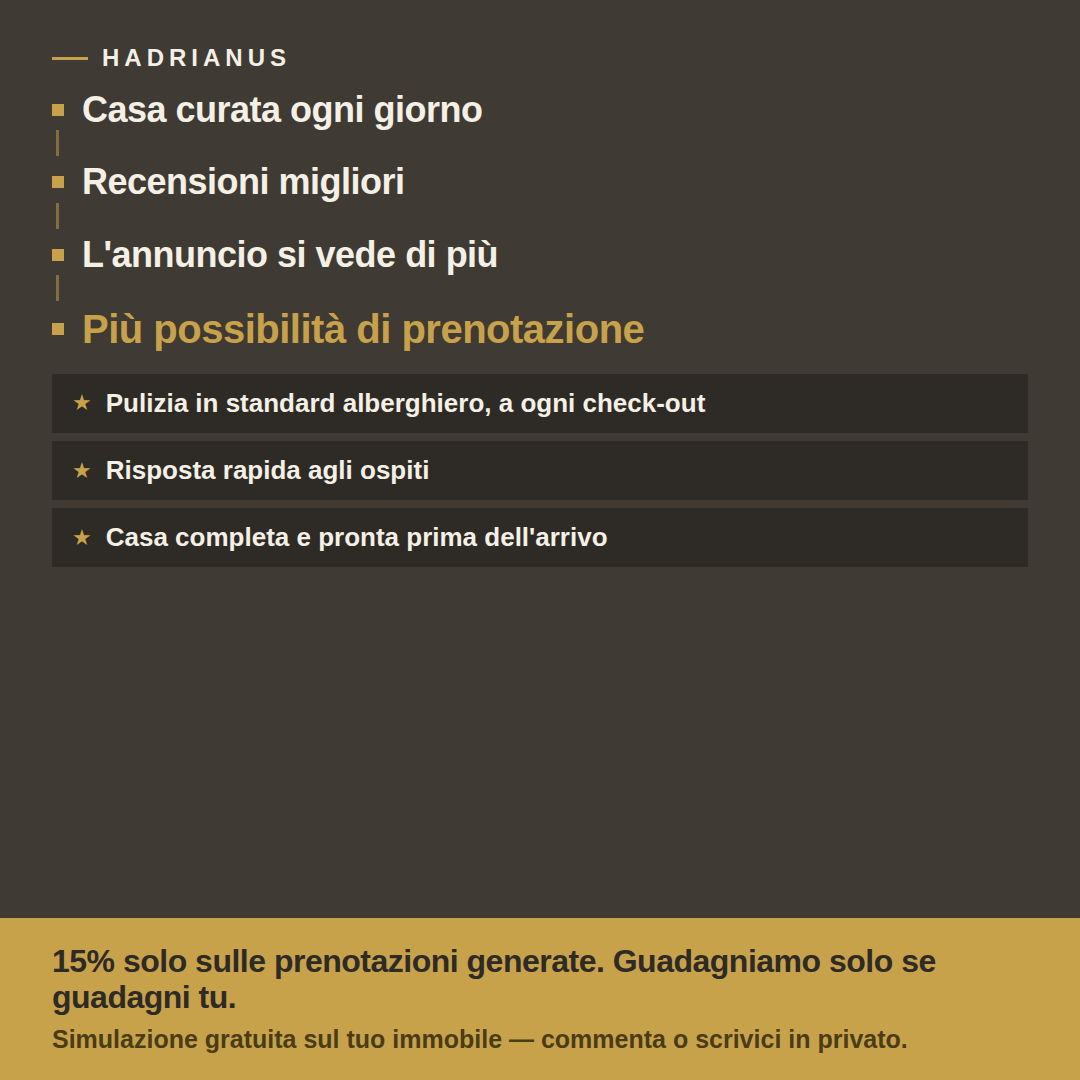
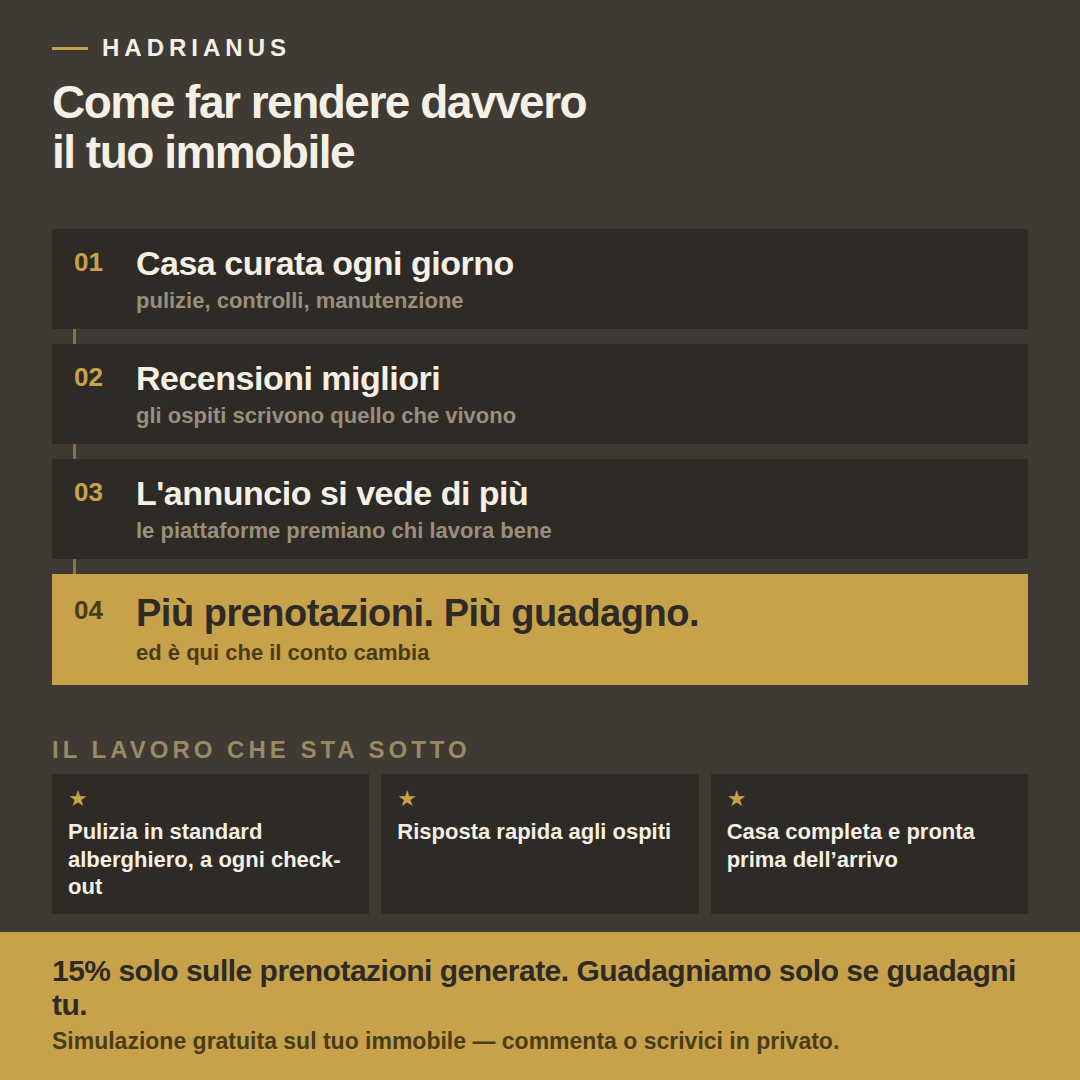
Rifà le tre immagini del post recensioni
Prima immagine: composizione centrata su corona e cinque stelle in
oro, con la corona anche come filigrana di fondo; la citazione in
basso ora è una card intera, non più tagliata dal bordo. Seconda
immagine ribaltata su fondo chiaro, con le recensioni su card bianche
a filo oro, evidenziazioni più marcate e la riga di sintesi molto più
grande su banda scura. Terza immagine ristrutturata: titolo di
contesto, quattro passaggi ognuno con la sua spiegazione e l'ultimo
in oro sul guadagno, il lavoro quotidiano in tre colonne, CTA che
adesso entra tutta nel formato.

Claude-Session: https://claude.ai/code/session_012jZTrBhTbSbvgQn1isvnmh

diff --git a/campagne/facebook-recensioni-superhost/grafiche/RecCatena.dc.html b/campagne/facebook-recensioni-superhost/grafiche/RecCatena.dc.html
@@ -14,60 +14,83 @@
   </style>
 </helmet>
 
-<div class="frame" style="width: 1080px; height: 1080px; box-sizing: border-box; display: flex; flex-direction: column; background: #3F3A33; color: #F5F0E6; overflow: hidden;">
-  <div style="flex-grow: 1; box-sizing: border-box; padding: 44px 52px 0 52px; display: flex; flex-direction: column; gap: 18px;">
-    <div style="display: flex; align-items: center; gap: 14px;">
+<div class="frame" style="width: 1080px; height: 1080px; box-sizing: border-box;  background: #3F3A33; overflow: hidden;">
+  <div style="width: 1080px; height: 1080px; box-sizing: border-box; display: flex; flex-direction: column;">
+
+    <div style="box-sizing: border-box; padding: 34px 52px 18px 52px; display: flex; flex-direction: column; gap: 16px;">
+      <div style="display: flex; align-items: center; gap: 14px;">
       <div style="width: 36px; height: 3px; background: #C8A24B;"></div>
       <span style="font-family: 'Archivo', sans-serif; font-weight: 800; letter-spacing: 5px; font-size: 24px; text-transform: uppercase; color: #F5F0E6;">Hadrianus</span>
     </div>
-    <div style="display: flex; flex-direction: column; gap: 6px;">
+      <h2 style="font-family: 'Archivo', sans-serif; font-weight: 900; font-size: 46px; line-height: 1.08; margin: 0; letter-spacing: -1.5px; color: #F5F0E6; text-wrap: pretty;">Come far rendere davvero<br>il tuo immobile</h2>
+    </div>
+
+    <div style="flex-grow: 1; box-sizing: border-box; padding: 0 52px; display: flex; flex-direction: column; justify-content: center; gap: 0;">
       <div>
-        <div style="display: flex; align-items: center; gap: 18px;">
-          <div style="width: 12px; height: 12px; background: #C8A24B; flex-shrink: 0;"></div>
-          <span style="font-family: 'Archivo', sans-serif; font-weight: 900; font-size: 36px; line-height: 1.12; color: #F5F0E6; letter-spacing: -0.5px;">Casa curata ogni giorno</span>
+        <div style="display: flex; align-items: flex-start; gap: 20px; background: #2E2A25; padding: 15px 22px;">
+          <span style="font-family: 'Archivo', sans-serif; font-weight: 900; font-size: 26px; line-height: 1.4; color: #C8A24B; width: 42px; flex-shrink: 0;">01</span>
+          <div style="display: flex; flex-direction: column; gap: 4px;">
+            <span style="font-family: 'Archivo', sans-serif; font-weight: 900; font-size: 34px; line-height: 1.14; letter-spacing: -0.5px; color: #F5F0E6;">Casa curata ogni giorno</span>
+            <span style="font-family: 'Manrope', sans-serif; font-weight: 600; font-size: 22px; line-height: 1.24; color: #9a8f7c;">pulizie, controlli, manutenzione</span>
+          </div>
         </div>
-        <div style="width: 3px; height: 26px; background: rgba(200,162,75,0.5); margin-left: 4px;"></div>
+        <div style="height: 15px; display: flex; align-items: center; padding-left: 21px;"><div style="width: 3px; height: 100%; background: rgba(200,162,75,0.55);"></div></div>
       </div>
       <div>
-        <div style="display: flex; align-items: center; gap: 18px;">
-          <div style="width: 12px; height: 12px; background: #C8A24B; flex-shrink: 0;"></div>
-          <span style="font-family: 'Archivo', sans-serif; font-weight: 900; font-size: 36px; line-height: 1.12; color: #F5F0E6; letter-spacing: -0.5px;">Recensioni migliori</span>
+        <div style="display: flex; align-items: flex-start; gap: 20px; background: #2E2A25; padding: 15px 22px;">
+          <span style="font-family: 'Archivo', sans-serif; font-weight: 900; font-size: 26px; line-height: 1.4; color: #C8A24B; width: 42px; flex-shrink: 0;">02</span>
+          <div style="display: flex; flex-direction: column; gap: 4px;">
+            <span style="font-family: 'Archivo', sans-serif; font-weight: 900; font-size: 34px; line-height: 1.14; letter-spacing: -0.5px; color: #F5F0E6;">Recensioni migliori</span>
+            <span style="font-family: 'Manrope', sans-serif; font-weight: 600; font-size: 22px; line-height: 1.24; color: #9a8f7c;">gli ospiti scrivono quello che vivono</span>
+          </div>
         </div>
-        <div style="width: 3px; height: 26px; background: rgba(200,162,75,0.5); margin-left: 4px;"></div>
+        <div style="height: 15px; display: flex; align-items: center; padding-left: 21px;"><div style="width: 3px; height: 100%; background: rgba(200,162,75,0.55);"></div></div>
       </div>
       <div>
-        <div style="display: flex; align-items: center; gap: 18px;">
-          <div style="width: 12px; height: 12px; background: #C8A24B; flex-shrink: 0;"></div>
-          <span style="font-family: 'Archivo', sans-serif; font-weight: 900; font-size: 36px; line-height: 1.12; color: #F5F0E6; letter-spacing: -0.5px;">L'annuncio si vede di pi&ugrave;</span>
+        <div style="display: flex; align-items: flex-start; gap: 20px; background: #2E2A25; padding: 15px 22px;">
+          <span style="font-family: 'Archivo', sans-serif; font-weight: 900; font-size: 26px; line-height: 1.4; color: #C8A24B; width: 42px; flex-shrink: 0;">03</span>
+          <div style="display: flex; flex-direction: column; gap: 4px;">
+            <span style="font-family: 'Archivo', sans-serif; font-weight: 900; font-size: 34px; line-height: 1.14; letter-spacing: -0.5px; color: #F5F0E6;">L'annuncio si vede di pi&ugrave;</span>
+            <span style="font-family: 'Manrope', sans-serif; font-weight: 600; font-size: 22px; line-height: 1.24; color: #9a8f7c;">le piattaforme premiano chi lavora bene</span>
+          </div>
         </div>
-        <div style="width: 3px; height: 26px; background: rgba(200,162,75,0.5); margin-left: 4px;"></div>
+        <div style="height: 15px; display: flex; align-items: center; padding-left: 21px;"><div style="width: 3px; height: 100%; background: rgba(200,162,75,0.55);"></div></div>
       </div>
       <div>
-        <div style="display: flex; align-items: center; gap: 18px;">
-          <div style="width: 12px; height: 12px; background: #C8A24B; flex-shrink: 0;"></div>
-          <span style="font-family: 'Archivo', sans-serif; font-weight: 900; font-size: 40px; line-height: 1.12; color: #C8A24B; letter-spacing: -0.5px;">Pi&ugrave; possibilit&agrave; di prenotazione</span>
+        <div style="display: flex; align-items: flex-start; gap: 20px; background: #C8A24B; padding: 18px 22px;">
+          <span style="font-family: 'Archivo', sans-serif; font-weight: 900; font-size: 26px; line-height: 1.4; color: #4a3c17; width: 42px; flex-shrink: 0;">04</span>
+          <div style="display: flex; flex-direction: column; gap: 4px;">
+            <span style="font-family: 'Archivo', sans-serif; font-weight: 900; font-size: 38px; line-height: 1.14; letter-spacing: -0.5px; color: #2E2A25;">Pi&ugrave; prenotazioni. Pi&ugrave; guadagno.</span>
+            <span style="font-family: 'Manrope', sans-serif; font-weight: 600; font-size: 22px; line-height: 1.24; color: #4a3c17;">ed &egrave; qui che il conto cambia</span>
+          </div>
         </div>
         
       </div>
     </div>
-    <div style="display: flex; flex-direction: column; gap: 8px; margin-top: 4px;">
-      <div style="display: flex; align-items: center; gap: 14px; background: #2E2A25; padding: 14px 20px;">
-        <span style="color: #C8A24B; font-size: 22px; line-height: 1;">&#9733;</span>
-        <span style="font-family: 'Manrope', sans-serif; font-weight: 600; font-size: 26px; line-height: 1.2; color: #F5F0E6;">Pulizia in standard alberghiero, a ogni check-out</span>
-      </div>
-      <div style="display: flex; align-items: center; gap: 14px; background: #2E2A25; padding: 14px 20px;">
-        <span style="color: #C8A24B; font-size: 22px; line-height: 1;">&#9733;</span>
-        <span style="font-family: 'Manrope', sans-serif; font-weight: 600; font-size: 26px; line-height: 1.2; color: #F5F0E6;">Risposta rapida agli ospiti</span>
-      </div>
-      <div style="display: flex; align-items: center; gap: 14px; background: #2E2A25; padding: 14px 20px;">
-        <span style="color: #C8A24B; font-size: 22px; line-height: 1;">&#9733;</span>
-        <span style="font-family: 'Manrope', sans-serif; font-weight: 600; font-size: 26px; line-height: 1.2; color: #F5F0E6;">Casa completa e pronta prima dell'arrivo</span>
+
+    <div style="box-sizing: border-box; padding: 18px 52px 18px 52px; display: flex; flex-direction: column; gap: 10px;">
+      <p style="font-family: 'Archivo', sans-serif; font-weight: 700; font-size: 24px; letter-spacing: 4px; text-transform: uppercase; margin: 0; color: #9A8A63;">Il lavoro che sta sotto</p>
+      <div style="display: flex; gap: 12px;">
+        <div style="flex: 1; background: #2E2A25; padding: 14px 16px; display: flex; flex-direction: column; gap: 8px;">
+          <span style="color: #C8A24B; font-size: 22px; line-height: 1;">&#9733;</span>
+          <span style="font-family: 'Manrope', sans-serif; font-weight: 600; font-size: 22px; line-height: 1.24; color: #F5F0E6;">Pulizia in standard alberghiero, a ogni check-out</span>
+        </div>
+        <div style="flex: 1; background: #2E2A25; padding: 14px 16px; display: flex; flex-direction: column; gap: 8px;">
+          <span style="color: #C8A24B; font-size: 22px; line-height: 1;">&#9733;</span>
+          <span style="font-family: 'Manrope', sans-serif; font-weight: 600; font-size: 22px; line-height: 1.24; color: #F5F0E6;">Risposta rapida agli ospiti</span>
+        </div>
+        <div style="flex: 1; background: #2E2A25; padding: 14px 16px; display: flex; flex-direction: column; gap: 8px;">
+          <span style="color: #C8A24B; font-size: 22px; line-height: 1;">&#9733;</span>
+          <span style="font-family: 'Manrope', sans-serif; font-weight: 600; font-size: 22px; line-height: 1.24; color: #F5F0E6;">Casa completa e pronta prima dell&rsquo;arrivo</span>
+        </div>
       </div>
     </div>
-  </div>
-  <div style="flex-shrink: 0; box-sizing: border-box; background: #C8A24B; color: #2E2A25; padding: 26px 52px; display: flex; flex-direction: column; gap: 8px;">
-    <span style="font-family: 'Archivo', sans-serif; font-weight: 900; font-size: 32px; line-height: 1.12; letter-spacing: -0.5px;">15% solo sulle prenotazioni generate. Guadagniamo solo se guadagni tu.</span>
-    <span style="font-family: 'Manrope', sans-serif; font-weight: 600; font-size: 25px; line-height: 1.2; color: #4a3c17;">Simulazione gratuita sul tuo immobile &mdash; commenta o scrivici in privato.</span>
+
+    <div style="flex-shrink: 0; box-sizing: border-box; background: #C8A24B; color: #2E2A25; padding: 22px 52px 24px 52px; display: flex; flex-direction: column; gap: 6px;">
+      <span style="font-family: 'Archivo', sans-serif; font-weight: 900; font-size: 30px; line-height: 1.14; letter-spacing: -0.5px;">15% solo sulle prenotazioni generate. Guadagniamo solo se guadagni tu.</span>
+      <span style="font-family: 'Manrope', sans-serif; font-weight: 600; font-size: 23px; line-height: 1.2; color: #4a3c17;">Simulazione gratuita sul tuo immobile &mdash; commenta o scrivici in privato.</span>
+    </div>
+
   </div>
 </div>
 </x-dc>

diff --git a/campagne/facebook-recensioni-superhost/grafiche/RecCitazioni.dc.html b/campagne/facebook-recensioni-superhost/grafiche/RecCitazioni.dc.html
@@ -14,36 +14,43 @@
   </style>
 </helmet>
 
-<div class="frame" style="width: 1080px; height: 1080px; box-sizing: border-box; display: flex; flex-direction: column; background: #3F3A33; color: #F5F0E6; overflow: hidden;">
-  <div style="flex-grow: 1; box-sizing: border-box; padding: 46px 52px 0 52px; display: flex; flex-direction: column; gap: 22px;">
-    <div style="display: flex; align-items: center; justify-content: space-between;">
-      <div style="display: flex; align-items: center; gap: 14px;">
+<div class="frame" style="width: 1080px; height: 1080px; box-sizing: border-box;  background: #F5F0E6; overflow: hidden;">
+  <div style="width: 1080px; height: 1080px; box-sizing: border-box; padding: 46px 52px 40px 52px; display: flex; flex-direction: column; justify-content: space-between; background: #F5F0E6;">
+
+    <div style="display: flex; flex-direction: column; gap: 22px;">
+      <div style="display: flex; align-items: center; justify-content: space-between;">
+        <div style="display: flex; align-items: center; gap: 14px;">
       <div style="width: 36px; height: 3px; background: #C8A24B;"></div>
-      <span style="font-family: 'Archivo', sans-serif; font-weight: 800; letter-spacing: 5px; font-size: 24px; text-transform: uppercase; color: #F5F0E6;">Hadrianus</span>
+      <span style="font-family: 'Archivo', sans-serif; font-weight: 800; letter-spacing: 5px; font-size: 24px; text-transform: uppercase; color: #26241F;">Hadrianus</span>
     </div>
+        <div style="display: flex; gap: 7px; color: #C8A24B; font-size: 26px; line-height: 1;"><span>★</span><span>★</span><span>★</span><span>★</span><span>★</span></div>
+      </div>
+      <h2 style="font-family: 'Archivo', sans-serif; font-weight: 900; font-size: 52px; line-height: 1.08; margin: 0; letter-spacing: -1.5px; color: #26241F;">Di cosa parlano davvero gli ospiti</h2>
     </div>
-    <h2 style="font-family: 'Archivo', sans-serif; font-weight: 900; font-size: 48px; line-height: 1.1; margin: 0; letter-spacing: -1px; color: #F5F0E6;">Di cosa parlano davvero gli ospiti</h2>
+
     <div style="display: flex; flex-direction: column; gap: 16px;">
-      <div style="background: #F5F0E6; color: #26241F; padding: 26px 28px; display: flex; flex-direction: column; gap: 13px;">
-      <div style="display: flex; gap: 5px; color: #C8A24B; font-size: 26px; line-height: 1;"><span>★</span><span>★</span><span>★</span><span>★</span><span>★</span></div>
-      <p style="font-family: 'Manrope', sans-serif; font-weight: 500; font-style: italic; font-size: 31px; line-height: 1.34; margin: 0; color: #26241F; text-wrap: pretty;">&ldquo;[&hellip;] Il padrone di casa era molto gentile, attento e <span style="background: rgba(200,162,75,0.42); padding: 0 4px; -webkit-box-decoration-break: clone; box-decoration-break: clone;">disponibile</span>. L'appartamento era in ordine sotto ogni aspetto, splendidamente <span style="background: rgba(200,162,75,0.42); padding: 0 4px; -webkit-box-decoration-break: clone; box-decoration-break: clone;">pulito</span>, ordinato e confortevole [&hellip;]&rdquo;</p>
-      <span style="font-family: 'Archivo', sans-serif; font-weight: 800; font-size: 25px; letter-spacing: 2px; text-transform: uppercase; color: #8a7f6c;">Attila</span>
+      <div style="background: #FFFFFF; border-left: 8px solid #C8A24B; padding: 24px 28px; display: flex; flex-direction: column; gap: 12px;">
+        <div style="display: flex; gap: 7px; color: #C8A24B; font-size: 26px; line-height: 1;"><span>★</span><span>★</span><span>★</span><span>★</span><span>★</span></div>
+        <p style="font-family: 'Manrope', sans-serif; font-weight: 500; font-style: italic; font-size: 30px; line-height: 1.34; margin: 0; color: #26241F; text-wrap: pretty;">&ldquo;[&hellip;] Il padrone di casa era molto gentile, attento e <span style="background: rgba(200,162,75,0.55); padding: 1px 6px; -webkit-box-decoration-break: clone; box-decoration-break: clone; font-weight: 700;">disponibile</span>. L'appartamento era in ordine sotto ogni aspetto, splendidamente <span style="background: rgba(200,162,75,0.55); padding: 1px 6px; -webkit-box-decoration-break: clone; box-decoration-break: clone; font-weight: 700;">pulito</span>, ordinato e confortevole [&hellip;]&rdquo;</p>
+        <span style="font-family: 'Archivo', sans-serif; font-weight: 800; font-size: 23px; letter-spacing: 3px; text-transform: uppercase; color: #8a7f6c;">Attila</span>
+      </div>
+      <div style="background: #FFFFFF; border-left: 8px solid #C8A24B; padding: 24px 28px; display: flex; flex-direction: column; gap: 12px;">
+        <div style="display: flex; gap: 7px; color: #C8A24B; font-size: 26px; line-height: 1;"><span>★</span><span>★</span><span>★</span><span>★</span><span>★</span></div>
+        <p style="font-family: 'Manrope', sans-serif; font-weight: 500; font-style: italic; font-size: 30px; line-height: 1.34; margin: 0; color: #26241F; text-wrap: pretty;">&ldquo;[&hellip;] casa <span style="background: rgba(200,162,75,0.55); padding: 1px 6px; -webkit-box-decoration-break: clone; box-decoration-break: clone; font-weight: 700;">pulitissima</span>, efficiente, ben arredata, luminosa. host paziente, vigile e <span style="background: rgba(200,162,75,0.55); padding: 1px 6px; -webkit-box-decoration-break: clone; box-decoration-break: clone; font-weight: 700;">sempre attento</span>&rdquo;</p>
+        <span style="font-family: 'Archivo', sans-serif; font-weight: 800; font-size: 23px; letter-spacing: 3px; text-transform: uppercase; color: #8a7f6c;">Stefania</span>
+      </div>
+      <div style="background: #FFFFFF; border-left: 8px solid #C8A24B; padding: 24px 28px; display: flex; flex-direction: column; gap: 12px;">
+        <div style="display: flex; gap: 7px; color: #C8A24B; font-size: 26px; line-height: 1;"><span>★</span><span>★</span><span>★</span><span>★</span><span>★</span></div>
+        <p style="font-family: 'Manrope', sans-serif; font-weight: 500; font-style: italic; font-size: 30px; line-height: 1.34; margin: 0; color: #26241F; text-wrap: pretty;">&ldquo;Ci ha permesso di trascorrere un soggiorno fantastico e <span style="background: rgba(200,162,75,0.55); padding: 1px 6px; -webkit-box-decoration-break: clone; box-decoration-break: clone; font-weight: 700;">ha risposto rapidamente</span>.&rdquo;</p>
+        <span style="font-family: 'Archivo', sans-serif; font-weight: 800; font-size: 23px; letter-spacing: 3px; text-transform: uppercase; color: #8a7f6c;">Fanny</span>
+      </div>
     </div>
-      <div style="background: #F5F0E6; color: #26241F; padding: 26px 28px; display: flex; flex-direction: column; gap: 13px;">
-      <div style="display: flex; gap: 5px; color: #C8A24B; font-size: 26px; line-height: 1;"><span>★</span><span>★</span><span>★</span><span>★</span><span>★</span></div>
-      <p style="font-family: 'Manrope', sans-serif; font-weight: 500; font-style: italic; font-size: 31px; line-height: 1.34; margin: 0; color: #26241F; text-wrap: pretty;">&ldquo;[&hellip;] casa <span style="background: rgba(200,162,75,0.42); padding: 0 4px; -webkit-box-decoration-break: clone; box-decoration-break: clone;">pulitissima</span>, efficiente, ben arredata, luminosa. host paziente, vigile e <span style="background: rgba(200,162,75,0.42); padding: 0 4px; -webkit-box-decoration-break: clone; box-decoration-break: clone;">sempre attento</span>&rdquo;</p>
-      <span style="font-family: 'Archivo', sans-serif; font-weight: 800; font-size: 25px; letter-spacing: 2px; text-transform: uppercase; color: #8a7f6c;">Stefania</span>
+
+    <div style="background: #2E2A25; padding: 26px 30px; display: flex; flex-direction: column; gap: 10px;">
+      <p style="font-family: 'Archivo', sans-serif; font-weight: 900; font-size: 36px; line-height: 1.2; margin: 0; color: #F5F0E6; text-wrap: pretty;">Sulle ultime nove recensioni: la pulizia citata in <span style="color: #C8A24B;">7</span>, la disponibilit&agrave; dell'host in <span style="color: #C8A24B;">6</span>.</p>
+      <p style="font-family: 'Manrope', sans-serif; font-weight: 500; font-size: 20px; line-height: 1.3; margin: 0; color: #9a8f7c;">Recensioni riportate integralmente; le straniere nella traduzione automatica della piattaforma.</p>
     </div>
-      <div style="background: #F5F0E6; color: #26241F; padding: 26px 28px; display: flex; flex-direction: column; gap: 13px;">
-      <div style="display: flex; gap: 5px; color: #C8A24B; font-size: 26px; line-height: 1;"><span>★</span><span>★</span><span>★</span><span>★</span><span>★</span></div>
-      <p style="font-family: 'Manrope', sans-serif; font-weight: 500; font-style: italic; font-size: 31px; line-height: 1.34; margin: 0; color: #26241F; text-wrap: pretty;">&ldquo;Ci ha permesso di trascorrere un soggiorno fantastico e <span style="background: rgba(200,162,75,0.42); padding: 0 4px; -webkit-box-decoration-break: clone; box-decoration-break: clone;">ha risposto rapidamente</span>.&rdquo;</p>
-      <span style="font-family: 'Archivo', sans-serif; font-weight: 800; font-size: 25px; letter-spacing: 2px; text-transform: uppercase; color: #8a7f6c;">Fanny</span>
-    </div>
-    </div>
-  </div>
-  <div style="flex-shrink: 0; box-sizing: border-box; padding: 20px 52px 26px 52px; display: flex; flex-direction: column; gap: 8px;">
-    <p style="font-family: 'Archivo', sans-serif; font-weight: 800; font-size: 26px; line-height: 1.25; margin: 0; color: #C8A24B;">Sulle ultime nove recensioni: la pulizia citata in 7, la disponibilit&agrave; dell'host in 6.</p>
-    <p style="font-family: 'Manrope', sans-serif; font-weight: 500; font-size: 19px; line-height: 1.3; margin: 0; color: #9a8f7c;">Recensioni riportate integralmente; le straniere nella traduzione automatica della piattaforma.</p>
+
   </div>
 </div>
 </x-dc>

diff --git a/campagne/facebook-recensioni-superhost/grafiche/RecGancio.dc.html b/campagne/facebook-recensioni-superhost/grafiche/RecGancio.dc.html
@@ -14,24 +14,49 @@
   </style>
 </helmet>
 
-<div class="frame" style="width: 1080px; height: 1920px; box-sizing: border-box; display: flex; flex-direction: column; background: #3F3A33; color: #F5F0E6; overflow: hidden;">
-  <div style="flex-grow: 1; box-sizing: border-box; padding: 110px 110px 0 110px; display: flex; flex-direction: column; justify-content: space-between;">
+<div class="frame" style="width: 1080px; height: 1920px; box-sizing: border-box; position: relative; background: #3F3A33; overflow: hidden;">
+  <div style="position: absolute; left: 0; top: 0; width: 1080px; height: 1920px; background: radial-gradient(120% 62% at 50% 30%, rgba(200,162,75,0.16) 0%, rgba(200,162,75,0.05) 38%, rgba(0,0,0,0) 72%);"></div>
+  <div style="position: absolute; left: 50%; top: 250px; transform: translateX(-50%);">
+    <svg width="600" height="468" viewBox="0 0 120 96" fill="none" style="opacity: 0.055; display: block;">
+      <path d="M10 74 L10 86 L110 86 L110 74 Z" fill="#C8A24B"/>
+      <path d="M10 74 L22 34 L41 56 L60 20 L79 56 L98 34 L110 74 Z" fill="#C8A24B"/>
+      <circle cx="22" cy="30" r="5" fill="#C8A24B"/>
+      <circle cx="60" cy="16" r="6" fill="#C8A24B"/>
+      <circle cx="98" cy="30" r="5" fill="#C8A24B"/>
+    </svg>
+  </div>
+
+  <div style="position: relative; width: 1080px; height: 1920px; box-sizing: border-box; padding: 96px 96px 92px 96px; display: flex; flex-direction: column; align-items: center; justify-content: space-between; text-align: center;">
+
     <div style="display: flex; align-items: center; gap: 14px;">
       <div style="width: 36px; height: 3px; background: #C8A24B;"></div>
       <span style="font-family: 'Archivo', sans-serif; font-weight: 800; letter-spacing: 5px; font-size: 30px; text-transform: uppercase; color: #F5F0E6;">Hadrianus</span>
     </div>
-    <div style="display: flex; flex-direction: column; gap: 36px; padding-bottom: 60px;">
-      <p style="font-family: 'Manrope', sans-serif; font-weight: 600; font-size: 46px; line-height: 1.3; margin: 0; color: #d8d2c4; max-width: 800px; text-wrap: pretty;">Ho riletto una per una le ultime recensioni di una casa che gestiamo.<br>Non cercavo i complimenti. Cercavo di cosa parlano.</p>
-      <p style="font-family: 'Archivo', sans-serif; font-weight: 800; font-size: 62px; line-height: 1.18; margin: 0; color: #C8A24B; letter-spacing: -1px;">Pulizia. Risposte rapide.<br>Casa pronta all'arrivo.</p>
-      <h1 style="font-family: 'Archivo', sans-serif; font-weight: 900; font-size: 104px; line-height: 1.06; margin: 0; letter-spacing: -2.5px; color: #F5F0E6; text-wrap: pretty;">Nessuna parla dei metri quadri.</h1>
+
+    <div style="flex: 1; display: flex; flex-direction: column; align-items: center; justify-content: center; gap: 32px; padding: 40px 0;">
+      <svg width="160" height="125" viewBox="0 0 120 96" fill="none" style="opacity: 1; display: block;">
+      <path d="M10 74 L10 86 L110 86 L110 74 Z" fill="#C8A24B"/>
+      <path d="M10 74 L22 34 L41 56 L60 20 L79 56 L98 34 L110 74 Z" fill="#C8A24B"/>
+      <circle cx="22" cy="30" r="5" fill="#C8A24B"/>
+      <circle cx="60" cy="16" r="6" fill="#C8A24B"/>
+      <circle cx="98" cy="30" r="5" fill="#C8A24B"/>
+    </svg>
+      <div style="display: flex; gap: 12px; color: #C8A24B; font-size: 46px; line-height: 1;"><span>★</span><span>★</span><span>★</span><span>★</span><span>★</span></div>
+      <p style="font-family: 'Archivo', sans-serif; font-weight: 700; font-size: 27px; letter-spacing: 7px; text-transform: uppercase; margin: 0; color: #9A8A63;">Le ultime recensioni</p>
+
+      <p style="font-family: 'Manrope', sans-serif; font-weight: 600; font-size: 42px; line-height: 1.34; margin: 0; color: #d8d2c4; max-width: 800px; text-wrap: pretty;">Le ho rilette una per una.<br>Non cercavo i complimenti: cercavo di cosa parlano.</p>
+
+      <p style="font-family: 'Archivo', sans-serif; font-weight: 800; font-size: 54px; line-height: 1.24; margin: 0; color: #C8A24B; letter-spacing: -0.5px;">Pulizia. Risposte rapide.<br>Casa pronta all'arrivo.</p>
+
+      <h1 style="font-family: 'Archivo', sans-serif; font-weight: 900; font-size: 100px; line-height: 1.06; margin: 0; letter-spacing: -2.5px; color: #F5F0E6; max-width: 880px; text-wrap: pretty;">Nessuna parla dei metri quadri.</h1>
     </div>
-  </div>
-  <div style="flex-shrink: 0; box-sizing: border-box; padding: 0 110px; height: 150px; overflow: hidden;">
-    <div style="background: #F5F0E6; color: #26241F; padding: 30px 32px; display: flex; flex-direction: column; gap: 15px;">
-      <div style="display: flex; gap: 5px; color: #C8A24B; font-size: 30px; line-height: 1;"><span>★</span><span>★</span><span>★</span><span>★</span><span>★</span></div>
-      <p style="font-family: 'Manrope', sans-serif; font-weight: 500; font-style: italic; font-size: 30px; line-height: 1.34; margin: 0; color: #26241F; text-wrap: pretty;">&ldquo;[&hellip;] splendidamente pulito, ordinato e confortevole [&hellip;]&rdquo;</p>
-      <span style="font-family: 'Archivo', sans-serif; font-weight: 800; font-size: 25px; letter-spacing: 2px; text-transform: uppercase; color: #8a7f6c;">Attila</span>
+
+    <div style="width: 100%; background: #F5F0E6; color: #26241F; padding: 34px 40px; box-sizing: border-box; display: flex; flex-direction: column; align-items: center; gap: 16px;">
+      <div style="display: flex; gap: 8px; color: #C8A24B; font-size: 30px; line-height: 1;"><span>★</span><span>★</span><span>★</span><span>★</span><span>★</span></div>
+      <p style="font-family: 'Manrope', sans-serif; font-weight: 500; font-style: italic; font-size: 32px; line-height: 1.34; margin: 0; text-wrap: pretty;">&ldquo;[&hellip;] splendidamente pulito, ordinato e confortevole [&hellip;]&rdquo;</p>
+      <span style="font-family: 'Archivo', sans-serif; font-weight: 800; font-size: 24px; letter-spacing: 3px; text-transform: uppercase; color: #8a7f6c;">Attila</span>
     </div>
+
   </div>
 </div>
 </x-dc>
